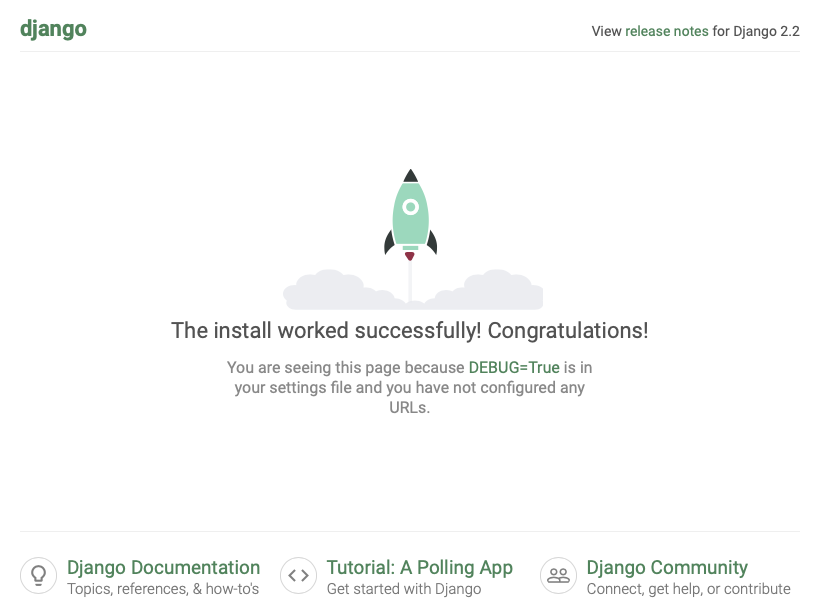
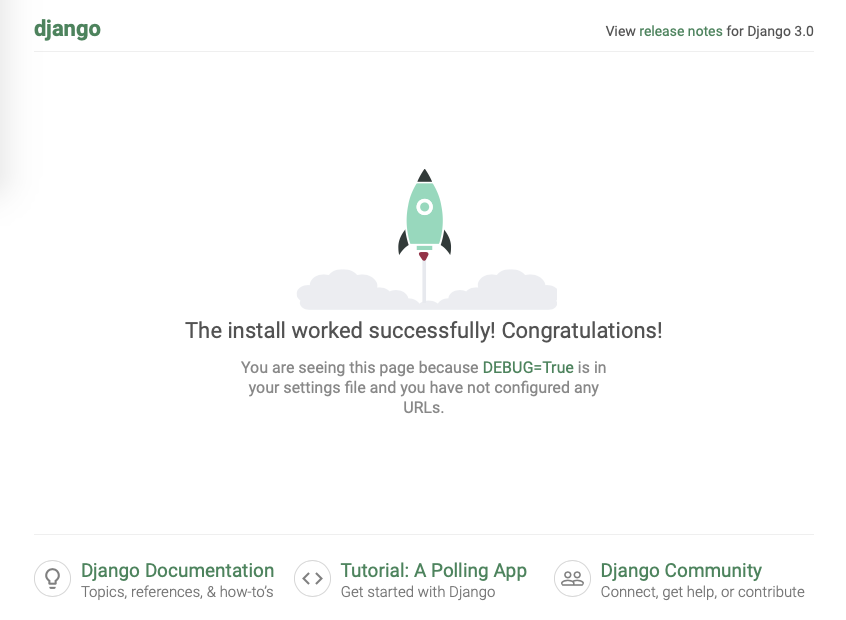
Update

diff --git a/docs/conf.py b/docs/conf.py
@@ -46,16 +46,16 @@ master_doc = 'index'
 # General information about the project.
 project = u'Django Workshop'
 authors = u'Markus Zapke-Gründemann et al.'
-copyright = u'2018 {0}'.format(authors[:-1])
+copyright = u'2020 {0}'.format(authors[:-1])
 
 # The version info for the project you're documenting, acts as replacement for
 # |version| and |release|, also used in various other places throughout the
 # built documents.
 #
 # The short X.Y version.
-version = '0.7'
+version = '0.8'
 # The full version, including alpha/beta/rc tags.
-release = '0.7.0'
+release = '0.8.0'
 
 # The language for content autogenerated by Sphinx. Refer to documentation
 # for a list of supported languages.
@@ -242,10 +242,10 @@ man_pages = [
 # nothing. The default is False.
 todo_include_todos = False
 
-extlinks = {'djangodocs': ('https://docs.djangoproject.com/en/2.0/%s', None)}
+extlinks = {'djangodocs': ('https://docs.djangoproject.com/en/3.0/%s', None)}
 
 rst_epilog = """
-.. |djangoversion| replace:: 2.2.3
+.. |djangoversion| replace:: 3.0.8
 """
 
 linkcheck_ignore = [

diff --git a/docs/recipes_views_templates.rst b/docs/recipes_views_templates.rst
@@ -34,45 +34,45 @@ Now if you try to start the development server:
 
     Exception in thread django-main-thread:
     Traceback (most recent call last):
-      File "/Library/Frameworks/Python.framework/Versions/3.6/lib/python3.6/threading.py", line 916, in _bootstrap_inner
+      File "/Library/Frameworks/Python.framework/Versions/3.8/lib/python3.8/threading.py", line 932, in _bootstrap_inner
         self.run()
-      File "/Library/Frameworks/Python.framework/Versions/3.6/lib/python3.6/threading.py", line 864, in run
+      File "/Library/Frameworks/Python.framework/Versions/3.8/lib/python3.8/threading.py", line 870, in run
         self._target(*self._args, **self._kwargs)
-      File "/Users/chris/Coursewares/django-workshop/venv/lib/python3.6/site-packages/django/utils/autoreload.py", line 54, in wrapper
+      File "/Users/chris/Courseware/django-workshop/venv/lib/python3.8/site-packages/django/utils/autoreload.py", line 53, in wrapper
         fn(*args, **kwargs)
-      File "/Users/chris/Coursewares/django-workshop/venv/lib/python3.6/site-packages/django/core/management/commands/runserver.py", line 117, in inner_run
+      File "/Users/chris/Courseware/django-workshop/venv/lib/python3.8/site-packages/django/core/management/commands/runserver.py", line 117, in inner_run
         self.check(display_num_errors=True)
-      File "/Users/chris/Coursewares/django-workshop/venv/lib/python3.6/site-packages/django/core/management/base.py", line 390, in check
-        include_deployment_checks=include_deployment_checks,
-      File "/Users/chris/Coursewares/django-workshop/venv/lib/python3.6/site-packages/django/core/management/base.py", line 377, in _run_checks
+      File "/Users/chris/Courseware/django-workshop/venv/lib/python3.8/site-packages/django/core/management/base.py", line 392, in check
+        all_issues = self._run_checks(
+      File "/Users/chris/Courseware/django-workshop/venv/lib/python3.8/site-packages/django/core/management/base.py", line 382, in _run_checks
         return checks.run_checks(**kwargs)
-      File "/Users/chris/Coursewares/django-workshop/venv/lib/python3.6/site-packages/django/core/checks/registry.py", line 72, in run_checks
+      File "/Users/chris/Courseware/django-workshop/venv/lib/python3.8/site-packages/django/core/checks/registry.py", line 72, in run_checks
         new_errors = check(app_configs=app_configs)
-      File "/Users/chris/Coursewares/django-workshop/venv/lib/python3.6/site-packages/django/core/checks/urls.py", line 13, in check_url_config
+      File "/Users/chris/Courseware/django-workshop/venv/lib/python3.8/site-packages/django/core/checks/urls.py", line 13, in check_url_config
         return check_resolver(resolver)
-      File "/Users/chris/Coursewares/django-workshop/venv/lib/python3.6/site-packages/django/core/checks/urls.py", line 23, in check_resolver
+      File "/Users/chris/Courseware/django-workshop/venv/lib/python3.8/site-packages/django/core/checks/urls.py", line 23, in check_resolver
         return check_method()
-      File "/Users/chris/Coursewares/django-workshop/venv/lib/python3.6/site-packages/django/urls/resolvers.py", line 398, in check
+      File "/Users/chris/Courseware/django-workshop/venv/lib/python3.8/site-packages/django/urls/resolvers.py", line 407, in check
         for pattern in self.url_patterns:
-      File "/Users/chris/Coursewares/django-workshop/venv/lib/python3.6/site-packages/django/utils/functional.py", line 80, in __get__
+      File "/Users/chris/Courseware/django-workshop/venv/lib/python3.8/site-packages/django/utils/functional.py", line 48, in __get__
         res = instance.__dict__[self.name] = self.func(instance)
-      File "/Users/chris/Coursewares/django-workshop/venv/lib/python3.6/site-packages/django/urls/resolvers.py", line 579, in url_patterns
+      File "/Users/chris/Courseware/django-workshop/venv/lib/python3.8/site-packages/django/urls/resolvers.py", line 588, in url_patterns
         patterns = getattr(self.urlconf_module, "urlpatterns", self.urlconf_module)
-      File "/Users/chris/Coursewares/django-workshop/venv/lib/python3.6/site-packages/django/utils/functional.py", line 80, in __get__
+      File "/Users/chris/Courseware/django-workshop/venv/lib/python3.8/site-packages/django/utils/functional.py", line 48, in __get__
         res = instance.__dict__[self.name] = self.func(instance)
-      File "/Users/chris/Coursewares/django-workshop/venv/lib/python3.6/site-packages/django/urls/resolvers.py", line 572, in urlconf_module
+      File "/Users/chris/Courseware/django-workshop/venv/lib/python3.8/site-packages/django/urls/resolvers.py", line 581, in urlconf_module
         return import_module(self.urlconf_name)
-      File "/Users/chris/Coursewares/django-workshop/venv/lib/python3.6/importlib/__init__.py", line 126, in import_module
+      File "/Users/chris/Courseware/django-workshop/venv/lib/python3.8/importlib/__init__.py", line 127, in import_module
         return _bootstrap._gcd_import(name[level:], package, level)
-      File "<frozen importlib._bootstrap>", line 994, in _gcd_import
-      File "<frozen importlib._bootstrap>", line 971, in _find_and_load
-      File "<frozen importlib._bootstrap>", line 955, in _find_and_load_unlocked
-      File "<frozen importlib._bootstrap>", line 665, in _load_unlocked
-      File "<frozen importlib._bootstrap_external>", line 678, in exec_module
+      File "<frozen importlib._bootstrap>", line 1014, in _gcd_import
+      File "<frozen importlib._bootstrap>", line 991, in _find_and_load
+      File "<frozen importlib._bootstrap>", line 975, in _find_and_load_unlocked
+      File "<frozen importlib._bootstrap>", line 671, in _load_unlocked
+      File "<frozen importlib._bootstrap_external>", line 783, in exec_module
       File "<frozen importlib._bootstrap>", line 219, in _call_with_frames_removed
-      File "/Users/chris/Coursewares/django-workshop/tmp_src_2019/cookbook/cookbook/urls.py", line 26, in <module>
+      File "/Users/chris/Courseware/django-workshop/tmp_src_2020/cookbook/cookbook/urls.py", line 25, in <module>
         path('recipe/<str:slug>/', recipes.views.detail),
-      AttributeError: module 'recipes.views' has no attribute 'detail'
+    AttributeError: module 'recipes.views' has no attribute 'detail'
 
 It results in an error, because until now you still have no view written.
 

diff --git a/docs/preparation.rst b/docs/preparation.rst
@@ -15,7 +15,7 @@ Therefore Python needs to be installed first.
 
 .. note::
 
-    Django |djangoversion| supports Python from version 3.5+. If you have an
+    Django |djangoversion| supports Python from version 3.6+. If you have an
     older version of Python, you should update it. The newest Django version
     doesn't support Python 2.
 
@@ -26,19 +26,8 @@ command line option ``-V``:
 
 .. note::
 
-    If you are using Python 3 please make sure you have Python 3.5 or
+    If you are using Python 3 please make sure you have Python 3.6 or
     greater installed. Otherwise there will be problems.
-
-    Also consider adding the following future-import on top of every
-    Python file you are going to edit to ensure Python 2 and 3
-    compatibility::
-
-        from __future__ import unicode_literals
-
-    This way all regular strings will be unicode string literals.
-
-    If you want to learn more read the :djangodocs:`Python 3
-    <topics/python3/>` part of the Django documentation.
 
 If you've already got the right version of Python installed, you can
 skip ahead to :ref:`Python Package Managers <python-package-manager>`.
@@ -68,7 +57,7 @@ Website and install it.
 
 So that Python works under Windows as expected, you need to change the
 environment variable :envvar:`%PATH%`. In the examples, we'll assume
-that your Python is installed in :file:`C:\\Python37\\`.
+that your Python is installed in :file:`C:\\Python38\\`.
 
 Windows 7
 ^^^^^^^^^
@@ -80,18 +69,6 @@ Windows 7
 #. A further window will open, click the
    :guilabel:`Environment Variables`
 #. Under `System Variables`, select the ``PATH``
-#. Now click on :guilabel:`Edit` and add the required directory:
-   ``;C:\Python37\;C:\Python37\Scripts;``. (The semi-colon at the
-   beginning is required!)
-#. Now close the windows :guilabel:`Environment Variables` and
-   :guilabel:`System Properties` by clicking on `OK`.
-
-Windows XP
-^^^^^^^^^^
-
-#. :menuselection:`Start --> Control Panel --> System --> Advanced`
-#. Click on the :guilabel:`Environment Variables`, then a new window
-   will open. Under "System Variables" select ``Path``
 #. Now click on :guilabel:`Edit` and add the required directory:
    ``;C:\Python37\;C:\Python37\Scripts;``. (The semi-colon at the
    beginning is required!)

diff --git a/docs/syncdb_runserver.rst b/docs/syncdb_runserver.rst
@@ -17,7 +17,7 @@ First, you should check your models with the following command:
 
     ERRORS:
     recipes.Recipe.photo: (fields.E210) Cannot use ImageField because Pillow is not installed.
-      HINT: Get Pillow at https://pypi.python.org/pypi/Pillow or run command "pip install Pillow".
+        HINT: Get Pillow at https://pypi.org/project/Pillow/ or run command "python -m pip install Pillow".
 
     System check identified 1 issue (0 silenced).
 
@@ -103,6 +103,8 @@ database. With the following command you can issue the queries:
 
 ::
 
+    $ python manage.py sqlmigrate recipes 0001_initial
+
     BEGIN;
     --
     -- Create model Category
@@ -171,8 +173,8 @@ Now you can start the development server:
     Performing system checks...
 
     System check identified no issues (0 silenced).
-    July 28, 2019 - 15:15:02
-    Django version 2.2.3, using settings 'cookbook.settings'
+    July 23, 2020 - 13:16:08
+    Django version 3.0.8, using settings 'cookbook.settings'
     Starting development server at http://127.0.0.1:8000/
     Quit the server with CONTROL-C.
 

diff --git a/docs/start_django_project.rst b/docs/start_django_project.rst
@@ -16,6 +16,7 @@ After you've run the command you'll find the following structure::
     cookbook
     |-- cookbook
     |   |-- __init__.py
+    |   |-- asgi.py
     |   |-- settings.py
     |   |-- urls.py
     |   `-- wsgi.py
@@ -44,8 +45,8 @@ And try out the development server with the following command:
     You have 17 unapplied migration(s). Your project may not work properly until you apply the migrations for app(s): admin, auth, contenttypes, sessions.
     Run 'python manage.py migrate' to apply them.
 
-    July 28, 2019 - 12:50:40
-    Django version 2.2.3, using settings 'cookbook.settings'
+    July 23, 2020 - 10:57:18
+    Django version 3.0.8, using settings 'cookbook.settings'
     Starting development server at http://127.0.0.1:8000/
     Quit the server with CONTROL-C.
 

diff --git a/docs/index.rst b/docs/index.rst
@@ -43,6 +43,32 @@ Table of contents
    debug_toolbar
    expand_views
    simplify_urls
+   staticfiles
+   error_handling
+   debugging
+   authentication_registration
+   permissions
+   recipe_form
+   messages
+   class_based_views
+   pagination
+   authors
+   copyright
+
+.. All topics:
+   introduction
+   preparation
+   install_django
+   start_django_project
+   recipes_app
+   recipes_admin
+   syncdb_runserver
+   recipes_views_templates
+   database_api
+   local_settings
+   debug_toolbar
+   expand_views
+   simplify_urls
    django_rest_framework
    staticfiles
    error_handling

diff --git a/docs/permissions.rst b/docs/permissions.rst
@@ -115,8 +115,8 @@ Using permissions in templates
 
 The currently logged-in user’s permissions are stored in the template variable
 ``{{ perms }}``. This is an instance of
-``django.contrib.auth.context_processors.PermWrapper``, which is a template-
-friendly proxy of permissions.
+``django.contrib.auth.context_processors.auth``, which is a template-
+friendly proxy of permissions. YOu need to add it in settings.py:
 
 The ``{{ perms }}`` can be used like this:
 

diff --git a/docs/pagination.rst b/docs/pagination.rst
@@ -83,6 +83,18 @@ class-based views.
 
         return render(request, 'recipes/index.html', {'object_list': recipes, 'page_obj': recipes})
 
+In this case you need to replace:
+
+::
+
+    {% if is_paginated %}
+
+with:
+
+::
+
+    {% if page_obj.paginator.num_pages != 1 %}
+
 Further links to the Django documentation
 =========================================
 

diff --git a/docs/recipes_app.rst b/docs/recipes_app.rst
@@ -47,12 +47,6 @@ Now open the file :file:`models.py` in a text editor. It contains only a single
 
     from django.db import models
 
-If you're working on Python 2, add the following line before the
-``import`` to prevent problems with the encoding::
-
-    # encoding: utf-8
-
-
 A Model for the categories
 --------------------------
 

diff --git a/docs/staticfiles.rst b/docs/staticfiles.rst
@@ -78,7 +78,7 @@ that the context is wrapped into ``RequestContext`` automatically.
 
 .. literalinclude:: ../src/cookbook_staticfiles/recipes/views.py
     :linenos:
-    :emphasize-lines: 1, 8, 13
+    :emphasize-lines: 1, 8, 12-13
 
 Further links to the Django documentation
 =========================================

diff --git a/docs/class_based_views.rst b/docs/class_based_views.rst
@@ -26,7 +26,6 @@ Now the two functions ``index`` and ``detail`` are replaced by these classes:
 
         def get_queryset(self):
             recipes = Recipe.objects.all()
-            logger.debug('Recipes count: %d' % recipes.count())
             return recipes
 
 
